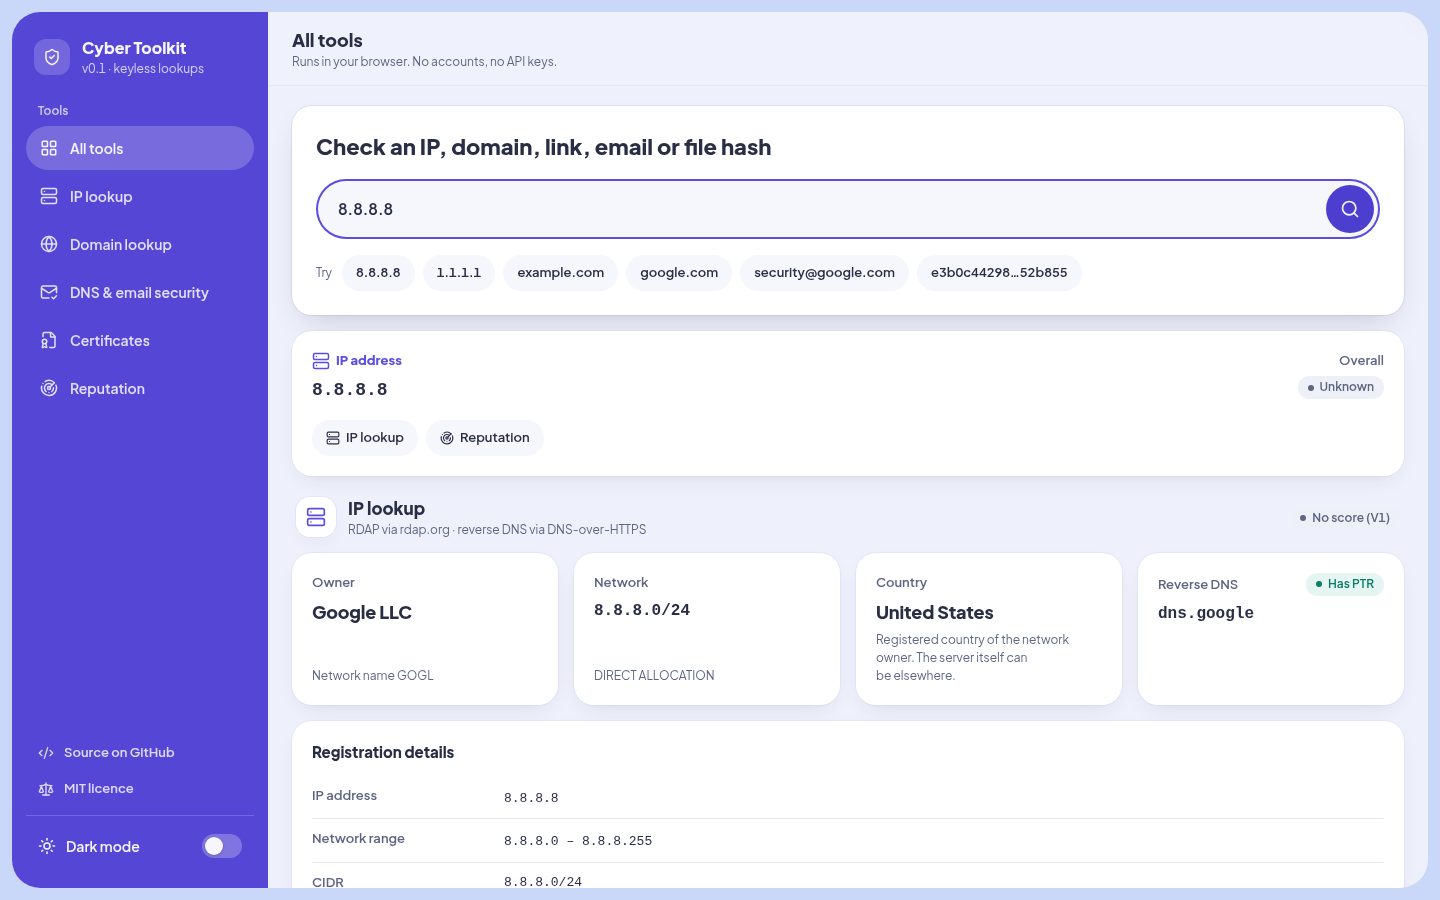
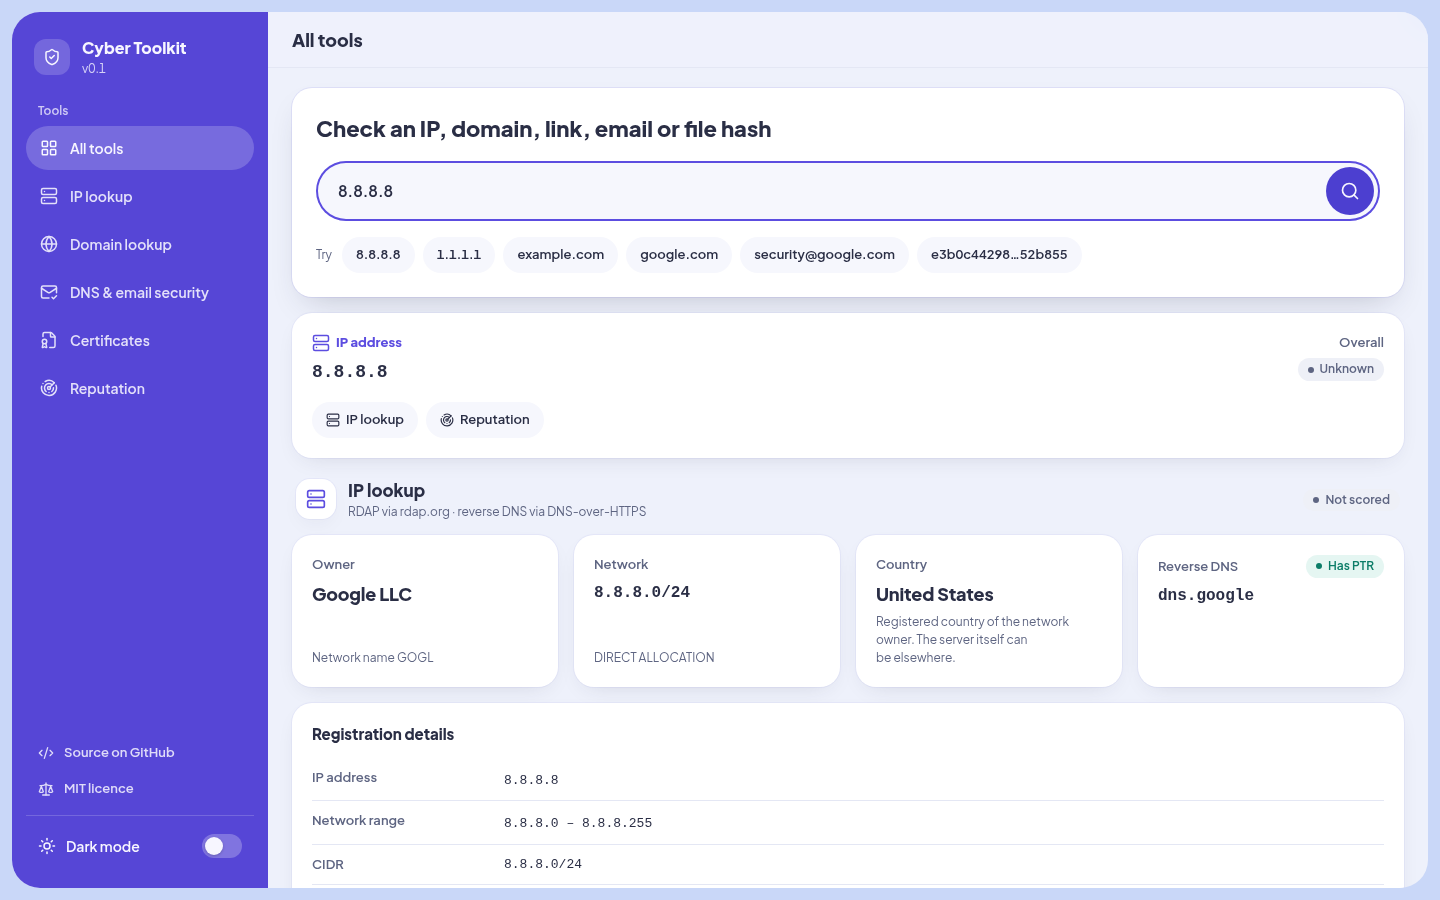
Tidy user-facing text: subtitle is just 'v0.1', drop build-brief taglines (keyless/no API keys/V1/V2, roadmap note), tighten source captions, friendlier network error, .de as the no-RDAP example (#9), neutral style comments

diff --git a/index.html b/index.html
@@ -22,7 +22,7 @@
     <aside class="rail" aria-label="Tools">
       <a class="wordmark" href="#" aria-label="Cyber Toolkit home">
         <span class="mark" data-icon="shield-check"></span>
-        <span><strong>Cyber Toolkit</strong><small>v0.1 · keyless lookups</small></span>
+        <span><strong>Cyber Toolkit</strong><small>v0.1</small></span>
       </a>
       <nav>
         <p class="nav-label">Tools</p>
@@ -47,7 +47,7 @@
           <a class="mobile-mark" href="#" aria-label="Cyber Toolkit home"><span class="mark" data-icon="shield-check"></span><strong>Cyber Toolkit</strong></a>
           <div class="toolbar-title">
             <h1 id="view-title">All tools</h1>
-            <p class="caption" id="view-caption">Runs in your browser. No accounts, no API keys.</p>
+            <p class="caption" id="view-caption"></p>
           </div>
           <button type="button" class="switch switch-compact" role="switch" aria-checked="false" aria-label="Dark mode" data-theme-toggle>
             <span class="switch-icon" data-icon="moon"></span>
@@ -75,7 +75,7 @@
         <div id="results" aria-live="polite"></div>
 
         <footer class="site-foot">
-          <p class="caption">Open source under the MIT licence. Lookups run in your browser and go straight to public services (RDAP, DNS-over-HTTPS, Cert Spotter).</p>
+          <p class="caption">Lookups go directly to rdap.org, Google Public DNS, Cloudflare DNS and Cert Spotter.</p>
           <p class="foot-links">
             <a href="https://github.com/ajith-at/cyber-toolkit" target="_blank" rel="noopener noreferrer">Source on GitHub</a>
             <a href="https://github.com/ajith-at/cyber-toolkit/blob/main/LICENSE" target="_blank" rel="noopener noreferrer">MIT licence</a>

diff --git a/js/app.js b/js/app.js
@@ -51,7 +51,7 @@ function markActive() {
   });
   const v = views.find((x) => x.id === state.tool) || views[0];
   $('#view-title').textContent = v.name;
-  $('#view-caption').textContent = v.id === 'all' ? 'Runs in your browser. No accounts, no API keys.' : v.summary;
+  $('#view-caption').textContent = v.id === 'all' ? '' : v.summary;
 }
 
 // ---------- routing via the URL hash: #q=<value>&tool=<id> ----------
@@ -167,8 +167,7 @@ function home() {
     el('div', { class: 'tool-grid' }, MODULES.map((m) => el('article', { class: 'card tool-card' },
       el('div', { class: 'tool-top' }, el('span', { class: 'module-icon' }, iconEl(m.icon, 20)), el('h3', {}, m.name)),
       el('p', { class: 'caption' }, m.summary),
-      el('div', { class: 'pill-row' }, m.accepts.map((a) => el('span', { class: 'chip-static' }, { ip: 'IP', domain: 'Domain', url: 'URL', hash: 'Hash' }[a])))))),
-    el('p', { class: 'note' }, 'More tools are planned: email header analyser, breach check, hash and Base64 tools, password strength and a vulnerability feed.'));
+      el('div', { class: 'pill-row' }, m.accepts.map((a) => el('span', { class: 'chip-static' }, { ip: 'IP', domain: 'Domain', url: 'URL', hash: 'Hash' }[a])))))));
 }
 
 // ---------- boot ----------

diff --git a/css/tokens.css b/css/tokens.css
@@ -1,4 +1,4 @@
-/* Palette tokens adapted from Ajith's "Soft Indigo Desk" style brief. Light and dark swap together. */
+/* Colour tokens. Light and dark themes swap the whole set together. */
 :root {
   --canvas: #c9d7f8; --shell: #eef1fb; --card: #ffffff; --soft: #f6f7fd;
   --ink: #2a2e45; --muted: #5e6582; --faint: #8b91ab; --line: #e4e7f4;
@@ -15,8 +15,8 @@
   --toolbar-bg: rgba(238, 241, 251, .85);
   --r-shell: 1.75rem; --r-card: 1.25rem; --r-inset: .75rem;
   --font: "Plus Jakarta Sans", ui-sans-serif, system-ui, sans-serif;
-  /* Adaptation: raw indicators (IPs, hashes, DNS records, JSON) need a monospace face to be read and compared
-     character by character. It is the system mono stack, not a second web font, and is used for raw values only. */
+  /* Monospace is for raw values only (IPs, hashes, DNS records, JSON) so they can be compared character by
+     character. System mono stack, no extra web font. */
   --mono: ui-monospace, SFMono-Regular, Menlo, Consolas, "Liberation Mono", monospace;
   color-scheme: light;
 }

diff --git a/modules/domain-lookup.js b/modules/domain-lookup.js
@@ -10,14 +10,14 @@ export default {
   icon: 'globe',
   accepts: ['domain'],
   summary: 'Registrar, created and expiry dates, domain age, nameservers and registry status (RDAP).',
-  source: 'RDAP via rdap.org (registry servers, e.g. Verisign for .com)',
+  source: 'RDAP via rdap.org',
 
   async render(q, { body, setStatus }) {
     let res;
     try { res = await rdapDomain(q.domain); } catch (e) {
       setStatus('unknown', 'Unavailable');
       const msg = e.kind === 'http' && e.status === 404
-        ? 'No RDAP record was found. The domain may not exist, or its registry (some country-code domains such as .au) does not publish RDAP yet.'
+        ? 'No RDAP record was found. The domain may not exist, or its registry does not publish RDAP (for example .de).'
         : e.message;
       body.append(errorCallout({ message: msg }, `https://lookup.icann.org/en/lookup?name=${encodeURIComponent(q.domain)}`, 'Look it up on ICANN Lookup'));
       return;

diff --git a/js/net.js b/js/net.js
@@ -19,7 +19,7 @@ export function fetchJson(url, { timeout = 15000, headers = {}, cacheable = true
       res = await fetch(url, { headers, signal: ctl.signal, referrerPolicy: 'no-referrer', credentials: 'omit' });
     } catch (e) {
       if (e.name === 'AbortError') throw new NetError('timeout', 'The service took too long to answer.');
-      throw new NetError('network', 'The service could not be reached from the browser (offline, blocked, or no CORS).');
+      throw new NetError('network', 'The service could not be reached. Check your connection or try again later.');
     } finally { clearTimeout(t); }
     if (!res.ok) throw new NetError('http', `The service answered with HTTP ${res.status}.`, res.status);
     try { return await res.json(); } catch { throw new NetError('parse', 'The service sent something that was not JSON.'); }

diff --git a/modules/reputation.js b/modules/reputation.js
@@ -1,4 +1,4 @@
-// Reputation panel: one-click deep links to well-known threat-intel services. No API keys, opens in a new tab.
+// Reputation panel: one-click links to well-known threat-intel services, opened in a new tab.
 // Most of these sites refuse to be embedded (X-Frame-Options / CSP frame-ancestors), so links are used instead of iframes.
 import { el, iconEl, mono, extLink } from '../js/ui.js';
 
@@ -62,7 +62,7 @@ export default {
   icon: 'radar',
   accepts: ['ip', 'domain', 'url', 'hash'],
   summary: 'One-click checks on VirusTotal, AbuseIPDB, Shodan, URLScan, Cisco Talos and AlienVault OTX.',
-  source: 'Deep links, opened in a new tab. Live scores need API keys (planned for V2).',
+  source: 'Links open in a new tab',
 
   async render(q, { body, setStatus }) {
     setStatus('unknown', 'Check externally');

diff --git a/modules/ip-lookup.js b/modules/ip-lookup.js
@@ -43,8 +43,8 @@ export default {
     const org = reg.org || reg.name || d.name || '—';
     const country = d.country || reg.country || null;
 
-    // There is no reputation score without an API key (planned for V2), so status stays "Unknown" unless something stands out.
-    setStatus('unknown', 'No score (V1)');
+    // No reputation score is available without an API key (see issue #6), so the status stays "Unknown".
+    setStatus('unknown', 'Not scored');
 
     body.append(factGrid(
       factCard({ label: 'Owner', figure: org, small: true, caption: d.name && d.name !== org ? `Network name ${d.name}` : (registrant?.handle ? `Handle ${registrant.handle}` : null) }),

diff --git a/css/app.css b/css/app.css
@@ -16,6 +16,7 @@ button, [role="button"], summary { cursor: pointer; }
 .mono { font-family: var(--mono); font-size: .8125rem; overflow-wrap: anywhere; font-variant-numeric: normal; }
 .muted { color: var(--muted); }
 .caption { color: var(--muted); font-size: .75rem; }
+.caption:empty { display: none; }
 .label { color: var(--muted); font-weight: 600; font-size: .8125rem; }
 .note { color: var(--muted); font-size: .75rem; padding: 0 .25rem; }
 

diff --git a/modules/dns-email.js b/modules/dns-email.js
@@ -67,7 +67,7 @@ export default {
   name: 'DNS & email security',
   icon: 'mail-check',
   accepts: ['domain'],
-  summary: 'A, AAAA, MX, NS and TXT records, with a simple SPF and DMARC grade for email spoofing protection.',
+  summary: 'A, AAAA, MX, NS and TXT records, plus an SPF and DMARC grade for spoofing protection.',
   source: 'DNS-over-HTTPS (Google Public DNS, Cloudflare fallback)',
 
   async render(q, { body, setStatus }) {

diff --git a/modules/certificates.js b/modules/certificates.js
@@ -39,7 +39,7 @@ export default {
   icon: 'file-badge',
   accepts: ['domain'],
   summary: 'TLS certificates from public Certificate Transparency logs, and the subdomains they reveal.',
-  source: 'Certificate Transparency via SSLMate Cert Spotter · crt.sh deep link',
+  source: 'Certificate Transparency logs via Cert Spotter',
 
   async render(q, { body, setStatus }) {
     const domain = guessRegistrable(q.domain);

diff --git a/js/ui.js b/js/ui.js
@@ -24,7 +24,7 @@ function append(n, children) {
 export const iconEl = (name, size = 18, cls = '') => el('span', { class: 'icon-wrap', html: icon(name, size, cls) });
 
 // ---------- status ----------
-// Risk mapping of the template's status colours.
+// Status colours mapped to risk levels.
 export const STATUS = {
   low: { cls: 'teal', word: 'Low risk' },
   unknown: { cls: 'slate', word: 'Unknown' },
